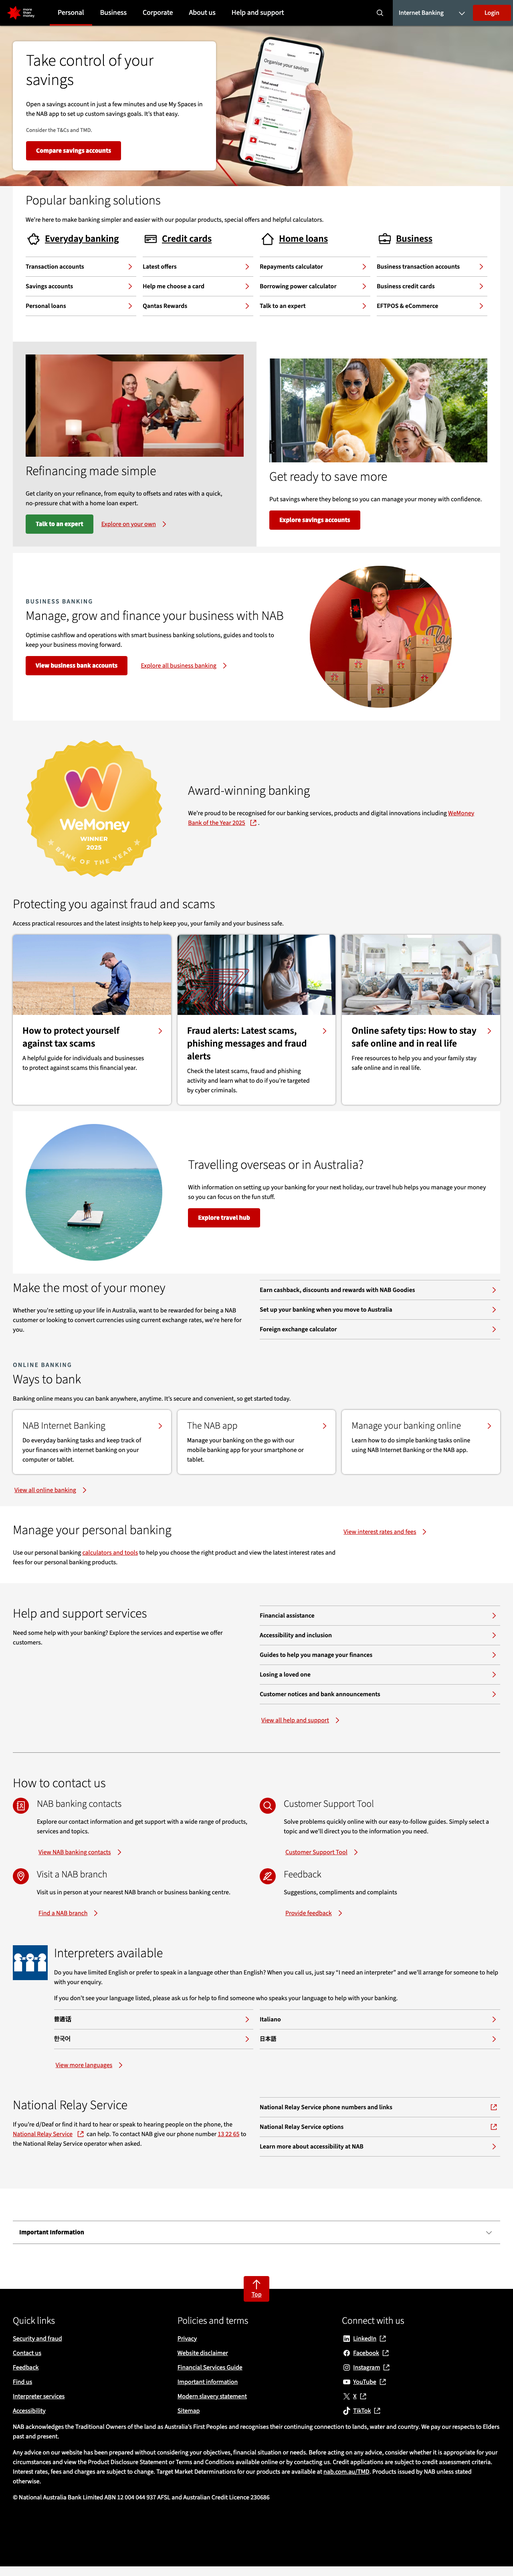
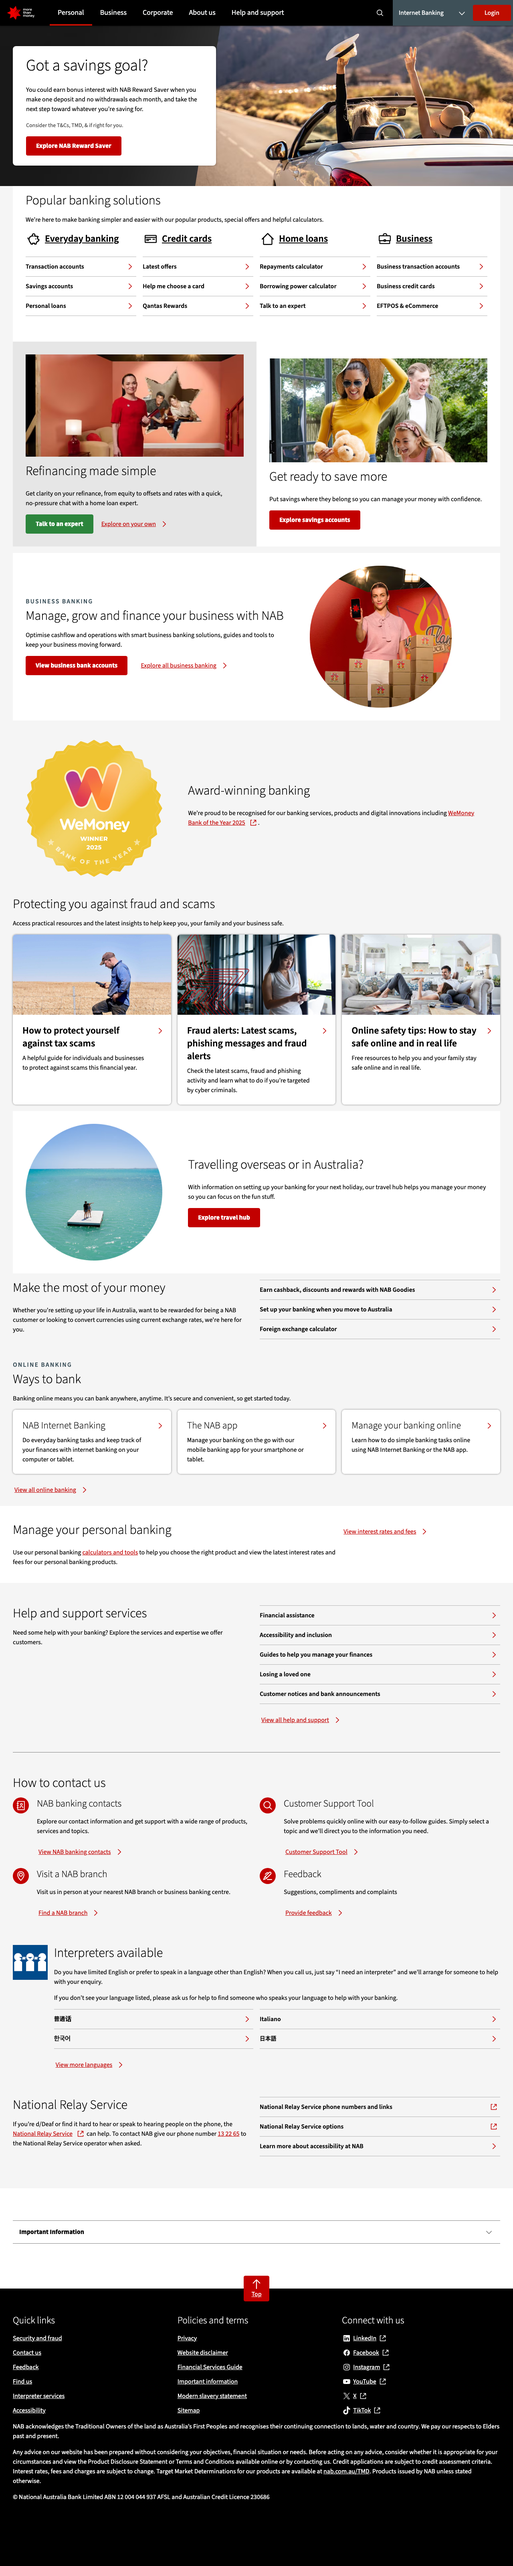
Sprint 8 - Add end-to-end QE daily orchestration

diff --git a/src/services/qeDailyOrchestrator.ts b/src/services/qeDailyOrchestrator.ts
@@ -1,0 +1,44 @@
+import { generateStoryScenarioDemo } from './storyScenarioDemo.js';
+import { generateDailyExecutionReport } from '../reporting/dailyExecutionReport.js';
+
+export interface QEDailyOrchestrationResult {
+  status: 'success' | 'partial' | 'failure';
+  message: string;
+  generatedAt: string;
+  scenarioReportPath: string;
+  executionReportPath: string;
+}
+
+export class QEDailyOrchestrator {
+  describeExecutionSequence(): string {
+    return [
+      '1. Generate scenario artifacts from the Open Banking user story',
+      '2. Execute daily test suites (ST, SIT, Contract, Accessibility)',
+      '3. Generate daily execution report from Playwright JSON results',
+      '4. Persist scenario and execution summaries for review',
+    ].join('\n');
+  }
+
+  async generateScenarios(): Promise<void> {
+    await generateStoryScenarioDemo();
+  }
+
+  async generateReport(): Promise<void> {
+    await generateDailyExecutionReport();
+  }
+
+  async orchestrateDailyRun(): Promise<QEDailyOrchestrationResult> {
+    const generatedAt = new Date().toISOString();
+
+    await this.generateScenarios();
+    await this.generateReport();
+
+    return {
+      status: 'success',
+      message: 'Daily QE orchestration completed successfully.',
+      generatedAt,
+      scenarioReportPath: 'reports/story-scenarios.json',
+      executionReportPath: 'reports/daily-execution-summary.json',
+    };
+  }
+}

diff --git a/src/reporting/dailyExecutionReport.ts b/src/reporting/dailyExecutionReport.ts
@@ -1,5 +1,6 @@
 import fs from 'fs/promises';
 import path from 'path';
+import { fileURLToPath } from 'url';
 
 export interface ExecutionSummary {
   totalTests: number;
@@ -151,6 +152,26 @@ export async function generateDailyExecutionReport(): Promise<ExecutionSummary> 
   await fs.writeFile(MD_OUTPUT_PATH, markdownLines.join('\n'), 'utf-8');
 
   return summary;
+}
+
+async function main(): Promise<void> {
+  const summary = await generateDailyExecutionReport();
+  console.log('Daily execution report generated successfully.');
+  console.log(`JSON output: ${JSON_OUTPUT_PATH}`);
+  console.log(`Markdown output: ${MD_OUTPUT_PATH}`);
+  console.log(`Total tests: ${summary.totalTests}`);
+  console.log(`Passed: ${summary.passed}`);
+  console.log(`Failed: ${summary.failed}`);
+  console.log(`Skipped: ${summary.skipped}`);
+  console.log(`Release confidence: ${summary.releaseConfidence}`);
+}
+
+const __filename = fileURLToPath(import.meta.url);
+if (process.argv[1] === __filename) {
+  main().catch((error) => {
+    console.error('Failed to generate daily execution report:', error);
+    process.exit(1);
+  });
 }
 
 export async function readDailyExecutionSummary(): Promise<ExecutionSummary | null> {

diff --git a/tests/sit/cdr-consent-flow.spec.js b/tests/sit/cdr-consent-flow.spec.js
@@ -1,8 +1,8 @@
 import { test, expect } from "@playwright/test";
 
-import consentSchema from "../../../contracts/cdr/consent.schema.json" assert { type: "json" };
+import consentSchema from "../../contracts/cdr/consent.schema.json" assert { type: "json" };
 
-import { validateSchema } from "../../../utils/schemaValidator.js";
+import { validateSchema } from "../../utils/schemaValidator.js";
 
 test.describe("Open Banking Consent Lifecycle Tests", () => {
 

diff --git a/reports/daily-execution-summary.md b/reports/daily-execution-summary.md
@@ -1,0 +1,17 @@
+# Daily Execution Summary
+
+**Generated At:** 2026-06-06T22:15:30.017Z
+**Source File:** Not found
+
+## Test Summary
+
+- Total tests: 0
+- Passed: 0
+- Failed: 0
+- Skipped: 0
+- Pass percentage: 0%
+- Release confidence: Red
+
+## Notes
+
+This summary is generated from available Playwright JSON results. If no results were found, counts default to zero.

diff --git a/reports/story-scenarios.md b/reports/story-scenarios.md
@@ -1,6 +1,6 @@
 # Story Scenario Demo Report
 
-**Generated At:** 2026-06-06T21:44:30.499Z
+**Generated At:** 2026-06-06T22:15:16.393Z
 
 ## User Story Summary
 
